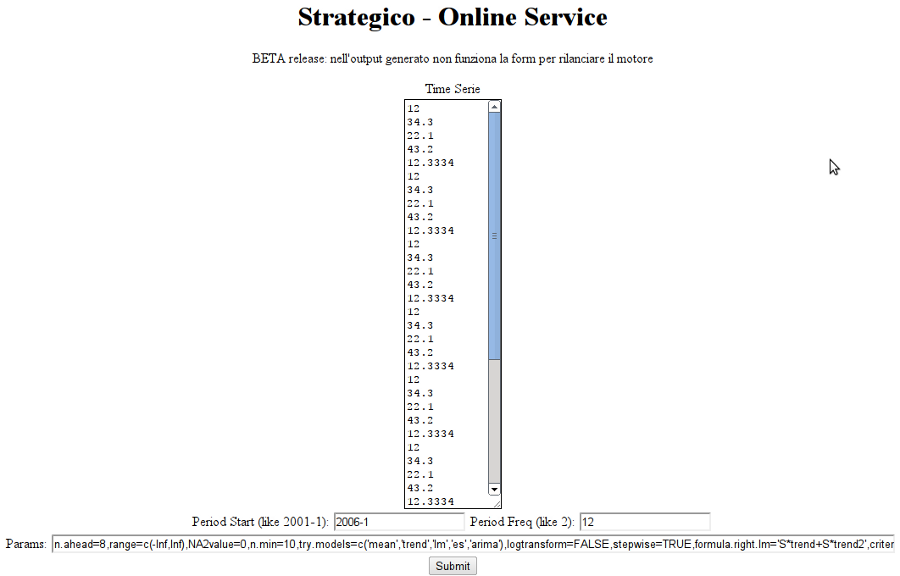
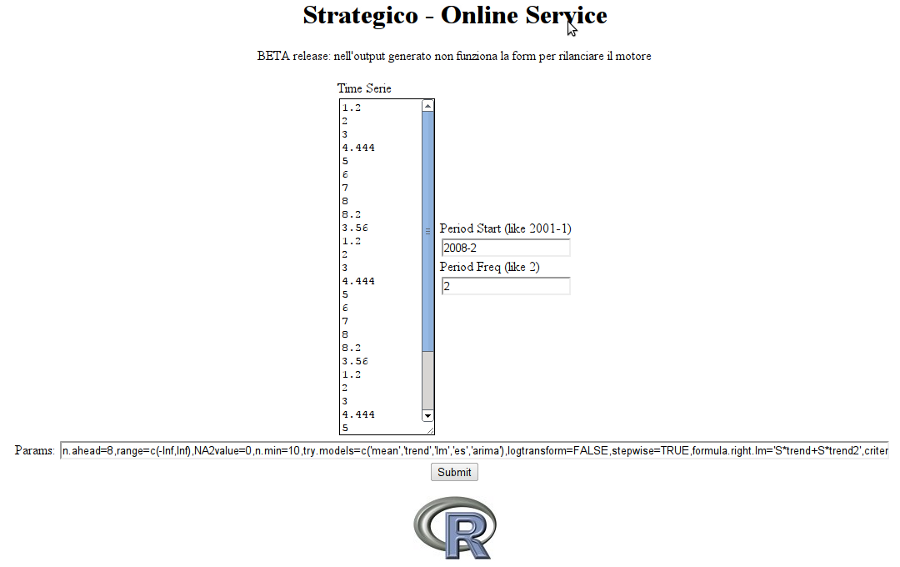
added Params parameter in online service

diff --git a/utils/ws.html b/utils/ws.html
@@ -8,9 +8,17 @@
 <p>BETA release: nell'output generato non funziona la form per rilanciare il motore</p>
 <form name="input" action="ws.php" method="get">
 <input type="hidden" name="eval_function" value="ltp" />
-Time Serie<br /><textarea name="ts" cols="12" rows="25"></textarea><br />
-Period Start (like 2001-1): <input type="text" name="period_start" />
-Period Freq (like 2): <input type="text" name="period_freq" /><br />
+  <table>
+    <tr>
+      <td>
+Time Serie<br /><textarea name="ts" cols="12" rows="25"></textarea>
+      </td>
+      <td>
+Period Start (like 2001-1)<br /><input type="text" name="period_start" /><br />
+Period Freq (like 2)<br /><input type="text" name="period_freq" />
+      </td>
+    </tr>
+  </table>
 Params:  <input type="text" name="params" id="params" size="160" value="n.ahead=8,range=c(-Inf,Inf),NA2value=0,n.min=10,try.models=c('mean','trend','lm','es','arima'),logtransform=FALSE,stepwise=TRUE,formula.right.lm='S*trend+S*trend2',criterion='BestAIC',criterionExcludeMaxGreaterThan=2,negToZero=TRUE,predictInteger=TRUE" /> <br />
 <input type="submit" name="submit" value="Submit" />
 </form>
